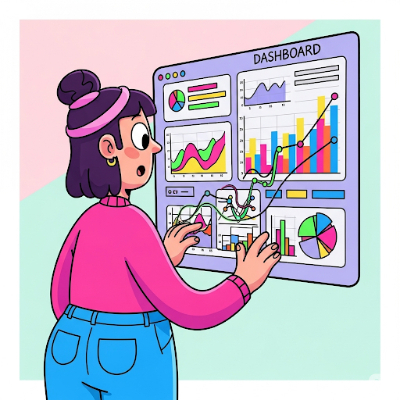
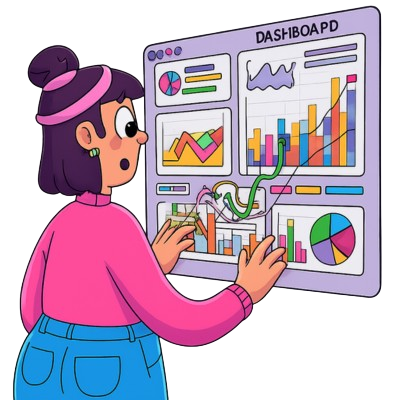
finalização do projeto

diff --git a/exercicios/ex027/flex014 - conteúdo flex/style.css b/exercicios/ex027/flex014 - conteúdo flex/style.css
@@ -12,9 +12,15 @@ body {
   line-height: 1.5em;
 }
 
-p, h1, h2 {
+p {
   margin-bottom: 10px;
   text-align: justify;
+}
+
+h1, h2 {
+  margin-bottom: 20px;
+  line-height: 1.2em;
+  text-align: left;
 }
 
 header, .normal {
@@ -23,6 +29,41 @@ header, .normal {
 
 section.flex-content {
   padding: 20px;
-  background-color: rgb(156, 156, 156);
+  background-color: rgba(156, 156, 156, 0.479);
+
+  display: flex;
+  flex-flow: column nowrap;
 }
 
+
+.text-media {
+  display: flex;
+  flex-flow: row wrap;
+}
+
+.media-text {
+  display: flex;
+  flex-flow: row wrap-reverse;
+  justify-content: space-between;
+}
+
+article > div.text {
+  flex: 1 1 500px;
+}
+
+article > div.media {
+  flex: 1 0 400px;
+}
+
+.media > img {
+  display: block;
+  margin: auto;
+  width: 300px;
+  padding: 10px;
+}
+
+.media > iframe {
+  display: block;
+  margin: auto;
+  width: 90%;
+}
